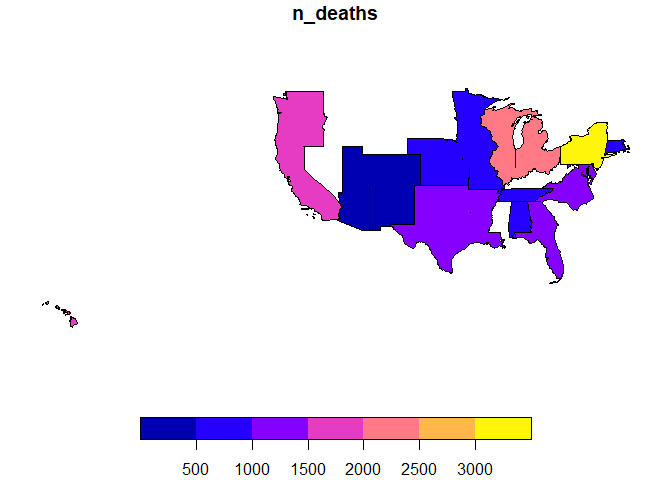
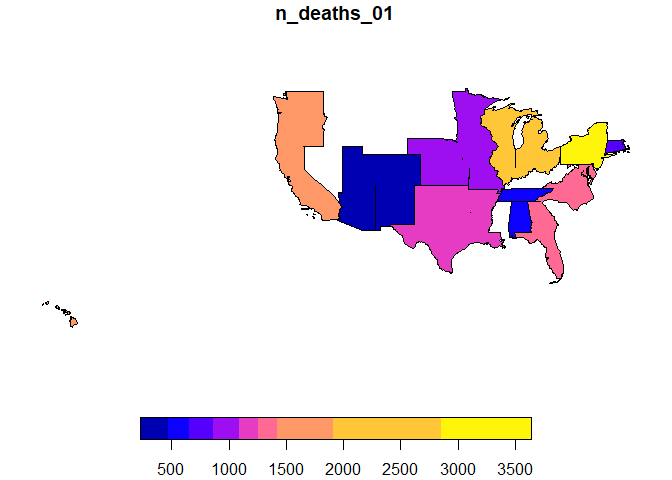
Wider geoquery.

diff --git a/README.md b/README.md
@@ -158,7 +158,7 @@ gdqr <- dimensional_query(gms) %>%
     measures = c("pneumonia_and_influenza_deaths", "other_deaths")
   ) %>%
   filter_dimension(name = "when", week <= "03") %>%
-  run_geoquery()
+  run_geoquery(wider = TRUE)
 ```
 
 The result is a vector layer that we can save or we can see it as a map,
@@ -166,9 +166,9 @@ using the functions associated with the `sf` class.
 
 ``` r
 class(gdqr)
-#> [1] "sf"         "tbl_df"     "tbl"        "data.frame"
+#> [1] "list"
 
-plot(gdqr[,"n_deaths"])
+plot(gdqr$sf[,"n_deaths_01"])
 ```
 
 <img src="man/figures/README-example4-1.png" width="100%" />
@@ -181,3 +181,27 @@ level.
 Only the parts of the divisions made up of states where there is
 recorded data are shown. If we wanted to show the full extent of each
 division, we should have explicitly associated a layer at that level.
+
+The result includes the meaning of each variable in table form.
+
+|             id\_variable              |              measure              | week |
+| :-----------------------------------: | :-------------------------------: | :--: |
+|             n\_deaths\_01             |             n\_deaths             |  01  |
+|             n\_deaths\_02             |             n\_deaths             |  02  |
+|             n\_deaths\_03             |             n\_deaths             |  03  |
+|               count\_01               |               count               |  01  |
+|               count\_02               |               count               |  02  |
+|               count\_03               |               count               |  03  |
+| pneumonia\_and\_influenza\_deaths\_01 | pneumonia\_and\_influenza\_deaths |  01  |
+| pneumonia\_and\_influenza\_deaths\_02 | pneumonia\_and\_influenza\_deaths |  02  |
+| pneumonia\_and\_influenza\_deaths\_03 | pneumonia\_and\_influenza\_deaths |  03  |
+|           other\_deaths\_01           |           other\_deaths           |  01  |
+|           other\_deaths\_02           |           other\_deaths           |  02  |
+|           other\_deaths\_03           |           other\_deaths           |  03  |
+
+It can be saved directly as a *GeoPackage*, using the
+`save_as_geopackage` function.
+
+``` r
+save_as_geopackage(vl_sf_w, "division")
+```

diff --git a/NEWS.md b/NEWS.md
@@ -1,6 +1,7 @@
 # geomultistar 1.0.0.9000
 * Include the [wider] parameter in the [run_geoquery()] function to define layers where geographic elements are not repeated.
 * Funtion [save_as_geopackage()] to export the results of a geoquery as a layer with an explanatory table of the measurements.
+* Update vignettes and readme.
 
 # geomultistar 1.0.0
 * Initial functionality.
